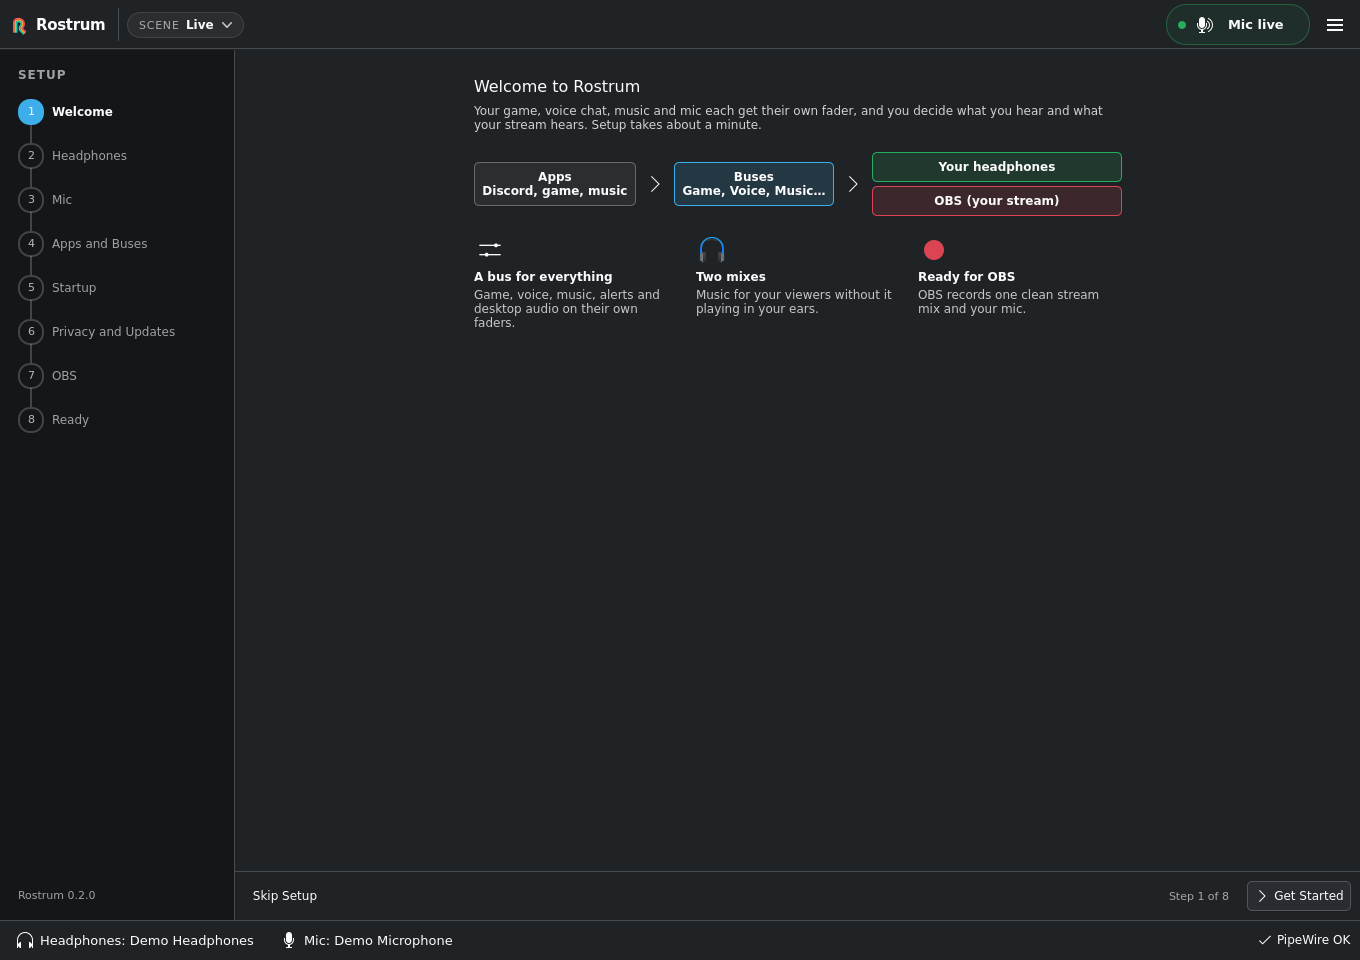
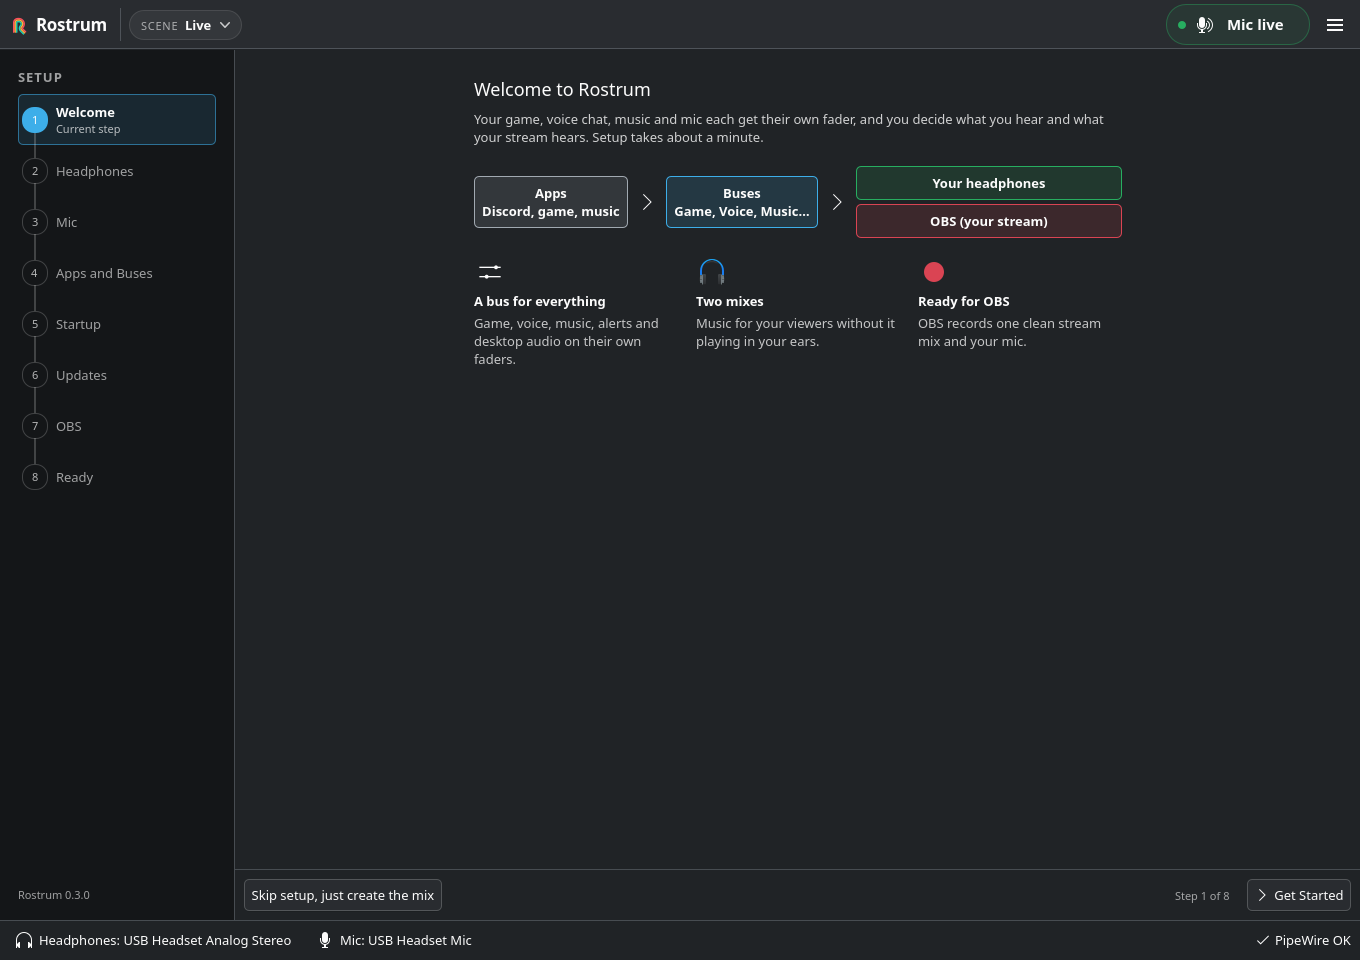
Update website for Rostrum 0.3.0
Download, release-note and docs links point at 0.3.0. The six app
screenshots are new 0.3.0 captures from the app's isolated screenshot
harness, with alt text and captions to match: the Settings shot now
shows the Hotkeys tab, and the OBS shot is shorter with OBS closed.
Mic filters are called Studio Voice, with the de-esser and the three
sounds; the hotkey and live-status features mention the new clash
prompt and the warning when OBS loses Rostrum after a PipeWire restart.

diff --git a/index.html b/index.html
@@ -59,16 +59,16 @@
           separate OBS tracks when you need their audio on its own.
         </p>
         <div class="actions">
-          <a class="button button-primary" href="https://github.com/rostrum-audio/rostrum/releases/download/v0.2.0/Rostrum-0.2.0-x86_64.AppImage">Download 0.2.0 AppImage</a>
-          <a class="button button-secondary" href="https://github.com/rostrum-audio/rostrum/releases/tag/v0.2.0">Release notes</a>
+          <a class="button button-primary" href="https://github.com/rostrum-audio/rostrum/releases/download/v0.3.0/Rostrum-0.3.0-x86_64.AppImage">Download 0.3.0 AppImage</a>
+          <a class="button button-secondary" href="https://github.com/rostrum-audio/rostrum/releases/tag/v0.3.0">Release notes</a>
         </div>
-        <p class="hero-note">Free and open source (Apache-2.0). 0.2.0 is available for x86_64. Validated on Ubuntu 26.04; glibc 2.43+ required. <a href="#install">Requirements and launch</a>.</p>
+        <p class="hero-note">Free and open source (Apache-2.0). 0.3.0 is available for x86_64. Validated on Ubuntu 26.04; glibc 2.43+ required. <a href="#install">Requirements and launch</a>.</p>
 
         <figure class="shot hero-shot">
           <button class="zoom" type="button" popovertarget="view-mixer">
             <span class="visually-hidden">Enlarge screenshot:</span>
-            <img src="images/mixer.png?v=28e6f422" width="1360" height="960"
-                 alt="The Rostrum 0.2.0 mixer in a demo session, with Include in Twitch VOD checked on Game and unchecked on Music. Headphones and Stream masters are above the six bus strips.">
+            <img src="images/mixer.png?v=eb919142" width="1360" height="960"
+                 alt="The Rostrum 0.3.0 mixer in a demo session, with Include in Twitch VOD checked on Game and unchecked on Music. Headphones and Stream masters are above the Mic strip and five bus strips.">
           </button>
         </figure>
       </div>
@@ -105,7 +105,7 @@
     <section class="section section-alt" id="features" aria-labelledby="features-title">
       <div class="wrap">
         <h2 id="features-title">Features</h2>
-        <p class="section-intro">Included in Rostrum 0.2.0.</p>
+        <p class="section-intro">Included in Rostrum 0.3.0.</p>
         <ul class="features">
           <li>
             <h3>Six buses to start</h3>
@@ -132,12 +132,12 @@
             <p>The mic has its own bus with optional sidetone. If a saved mic disappears, the stream mic stays silent until it returns. No other mic replaces it unless you explicitly enable fallback.</p>
           </li>
           <li>
-            <h3>Local microphone filters</h3>
-            <p>RNNoise reduces background noise, alongside a rumble filter, gate, EQ, compressor and limiter. Choose the stream and eligible recording apps, or only the stream, with per-app choices. Audio tools stay plain by default. Processing runs inside PipeWire.</p>
+            <h3>Studio Voice</h3>
+            <p>Local mic filters: RNNoise reduces background noise, alongside a rumble filter, gate, EQ, de-esser, compressor and limiter. Pick a Natural, Studio or Noisy desk sound, or fine-tune under Advanced. Choose the stream and eligible recording apps, or only the stream, with per-app choices. Audio tools stay plain by default. Processing runs inside PipeWire.</p>
           </li>
           <li>
             <h3>Check your stream mic</h3>
-            <p>Check Mic records five seconds of Rostrum Mic, with its gain and filters, and plays it back in your headphones only. It reports the mic level before OBS; it does not verify audience audio.</p>
+            <p>Check Mic records five seconds of Rostrum Mic, with its gain and Studio Voice, and plays it back in your headphones only. It reports the mic level before OBS; it does not verify audience audio.</p>
           </li>
           <li>
             <h3>Apps find their bus</h3>
@@ -169,11 +169,11 @@
           </li>
           <li>
             <h3>Knows when you are live</h3>
-            <p>LIVE and REC badges follow OBS. A warning appears if you go live with your mic muted or nothing reaching the stream. OBS scenes can switch Rostrum scenes.</p>
+            <p>LIVE and REC badges follow OBS. A warning appears if you go live with your mic muted or nothing reaching the stream. OBS scenes can switch Rostrum scenes, and you are warned if OBS loses Rostrum after a PipeWire restart.</p>
           </li>
           <li>
             <h3>Global hotkeys</h3>
-            <p>Mute the mic or the stream and switch scenes from anywhere. Bind push to talk, push to mute and a panic mute for mic and stream at once.</p>
+            <p>Mute the mic or the stream and switch scenes from anywhere. Bind push to talk, push to mute and a panic mute for mic and stream at once. If you press a key another action already uses, Rostrum asks before moving it.</p>
           </li>
           <li>
             <h3>Command line and D-Bus</h3>
@@ -206,7 +206,7 @@
           <figure class="shot">
             <button class="zoom" type="button" popovertarget="view-wizard">
               <span class="visually-hidden">Enlarge screenshot:</span>
-              <img src="images/wizard.png?v=212a9b2b" width="1360" height="960"
+              <img src="images/wizard.png?v=20162a6c" width="1360" height="960"
                    alt="First-time setup: a list of steps on the left, and a diagram of apps going to buses and buses going to your headphones and to OBS.">
             </button>
             <figcaption>First-time setup walks through headphones, mic, apps, startup, updates and OBS.</figcaption>
@@ -214,7 +214,7 @@
           <figure class="shot">
             <button class="zoom" type="button" popovertarget="view-apps">
               <span class="visually-hidden">Enlarge screenshot:</span>
-              <img src="images/apps.png?v=7460e43a" width="1360" height="960"
+              <img src="images/apps.png?v=3c568f76" width="1360" height="960"
                    alt="The Apps page: the apps playing now, the bus each is on and why, and the saved rules.">
             </button>
             <figcaption>The Apps page shows what is playing, where it went and why.</figcaption>
@@ -222,26 +222,26 @@
           <figure class="shot">
             <button class="zoom" type="button" popovertarget="view-obs">
               <span class="visually-hidden">Enlarge screenshot:</span>
-              <img src="images/obs.png?v=27708818" width="1360" height="1500"
-                   alt="Rostrum 0.2.0 OBS setup and separate recording-track controls in a private demo session.">
+              <img src="images/obs.png?v=d9120701" width="1360" height="1100"
+                   alt="The Rostrum 0.3.0 OBS page in a private demo session with OBS closed: stream readiness, Set Up OBS, recording tracks 3 to 6 and OBS scene switching.">
             </button>
-            <figcaption>Tracks 3–6 capture Mic, Game, Voice and Music in this demo. Recording changes have their own Review and Undo; matching assignments do not verify recorded sound.</figcaption>
+            <figcaption>With OBS closed, Set Up OBS edits its scene collection for the next start. Recording tracks 3–6 need OBS running with its WebSocket server; they have their own Review and Undo, and matching assignments do not verify recorded sound.</figcaption>
           </figure>
           <figure class="shot">
             <button class="zoom" type="button" popovertarget="view-settings">
               <span class="visually-hidden">Enlarge screenshot:</span>
-              <img src="images/settings.png?v=8b59f19e" width="1360" height="960"
-                   alt="Rostrum 0.2.0 Settings, with separate tabs for General, Audio, Hotkeys, Integrations and Application preferences.">
+              <img src="images/settings.png?v=6564255f" width="1360" height="960"
+                   alt="Rostrum 0.3.0 Settings on the Hotkeys tab: a search field, then the Mic shortcuts, each with clear and reset buttons.">
             </button>
-            <figcaption>Settings groups startup, audio, hotkeys, integrations and application preferences. OpenDeck setup is under Integrations.</figcaption>
+            <figcaption>Settings groups startup, audio, hotkeys, integrations and application preferences. Hotkeys can be searched, and Rostrum asks before moving a key another action already uses.</figcaption>
           </figure>
           <figure class="shot">
             <button class="zoom" type="button" popovertarget="view-micfilters">
               <span class="visually-hidden">Enlarge screenshot:</span>
-              <img src="images/micfilters.png?v=e2500f77" width="1360" height="960"
-                   alt="The Mic Filters page: a switch to clean up the mic, a preset, which apps get the filtered mic, then Check Your Mic and the rumble filter.">
+              <img src="images/micfilters.png?v=e48c77a8" width="1360" height="960"
+                   alt="The Studio Voice page: the on switch, the mic, the Natural, Studio and Noisy desk sounds, Check Your Mic, and which apps get the filtered mic.">
             </button>
-            <figcaption>Mic Filters processes locally; Check Mic plays back the Rostrum Mic signal before OBS.</figcaption>
+            <figcaption>Studio Voice processes locally; Check Mic plays back the Rostrum Mic signal before OBS.</figcaption>
           </figure>
         </div>
       </div>
@@ -253,16 +253,16 @@
         <div class="narrow">
         <h3>Download the x86_64 AppImage</h3>
         <p>
-          <a href="https://github.com/rostrum-audio/rostrum/releases/download/v0.2.0/Rostrum-0.2.0-x86_64.AppImage">Rostrum 0.2.0 AppImage</a> ·
-          <a href="https://github.com/rostrum-audio/rostrum/releases/download/v0.2.0/SHA256SUMS">SHA256SUMS</a> ·
-          <a href="https://github.com/rostrum-audio/rostrum/releases/tag/v0.2.0">Release notes</a>.
+          <a href="https://github.com/rostrum-audio/rostrum/releases/download/v0.3.0/Rostrum-0.3.0-x86_64.AppImage">Rostrum 0.3.0 AppImage</a> ·
+          <a href="https://github.com/rostrum-audio/rostrum/releases/download/v0.3.0/SHA256SUMS">SHA256SUMS</a> ·
+          <a href="https://github.com/rostrum-audio/rostrum/releases/tag/v0.3.0">Release notes</a>.
           Save the AppImage and checksum file in the same folder, then run:
         </p>
 <pre><code>sha256sum -c SHA256SUMS
-chmod +x Rostrum-0.2.0-x86_64.AppImage
-./Rostrum-0.2.0-x86_64.AppImage
+chmod +x Rostrum-0.3.0-x86_64.AppImage
+./Rostrum-0.3.0-x86_64.AppImage
 # If FUSE is unavailable:
-./Rostrum-0.2.0-x86_64.AppImage --appimage-extract-and-run</code></pre>
+./Rostrum-0.3.0-x86_64.AppImage --appimage-extract-and-run</code></pre>
         <p>
           Fully quit an existing Rostrum through its tray/menu Quit first; closing the window can
           leave it running. Builds share settings and a second launch can activate the old copy.
@@ -276,7 +276,7 @@ chmod +x Rostrum-0.2.0-x86_64.AppImage
           for every newer distribution. Older glibc and other architectures are unsupported by
           this artifact. A working audio session, desktop D-Bus, X11 or Wayland, graphics/font
           libraries and FUSE for mounted launch are required. See the
-          <a href="https://github.com/rostrum-audio/rostrum/blob/v0.2.0/docs/releasing.md#what-gets-published">host runtime packages</a>.
+          <a href="https://github.com/rostrum-audio/rostrum/blob/v0.3.0/docs/releasing.md#what-gets-published">host runtime packages</a>.
         </p>
         <h3>Connect OBS</h3>
         <p>
@@ -326,7 +326,7 @@ chmod +x Rostrum-0.2.0-x86_64.AppImage
           Install to install the bundled plugin. Restart OpenDeck and drag an action onto a key:
           Toggle mic, Panic mute, Switch scene, or Toggle bus mute. Python 3 is required.
           OpenDeck owns the deck; Rostrum does not open it. For manual copy instructions, see the
-          <a href="https://github.com/rostrum-audio/rostrum/tree/v0.2.0#opendeck">OpenDeck setup guide</a>.
+          <a href="https://github.com/rostrum-audio/rostrum/tree/v0.3.0#opendeck">OpenDeck setup guide</a>.
         </p>
         <p>OpenDeck mic cues provide optional headphone feedback, with per-key sound volume.</p>
         <section id="vod" aria-labelledby="vod-title">
@@ -389,7 +389,7 @@ chmod +x Rostrum-0.2.0-x86_64.AppImage
         <p>
           <a href="https://github.com/rostrum-audio/rostrum#build-from-source">Source-build instructions</a>
           cover Ubuntu, Fedora and Arch. Source minimums are PipeWire 1.0+, WirePlumber 0.5+,
-          Qt 6.5+ and KDE Frameworks 6.8+; mic filters need PipeWire 1.4+ audio-convert support.
+          Qt 6.5+ and KDE Frameworks 6.8+; Studio Voice needs PipeWire 1.4+ audio-convert support.
           These are not the AppImage’s validated compatibility matrix. Source-build CI passes
           on Fedora and Arch do not validate this AppImage on those systems.
         </p>
@@ -401,7 +401,7 @@ chmod +x Rostrum-0.2.0-x86_64.AppImage
       <div class="wrap">
         <h2 id="privacy-title">Privacy and network access</h2>
         <p class="section-intro">
-          Rostrum has no telemetry or accounts and does not upload your audio. Mic filters and the
+          Rostrum has no telemetry or accounts and does not upload your audio. Studio Voice and the
           mic check run locally without saving recordings. Optional update checks and AppImage downloads
           contact the release servers; optional crash reports go to Sentry. OBS communication stays local.
         </p>
@@ -430,42 +430,42 @@ chmod +x Rostrum-0.2.0-x86_64.AppImage
     <div class="lightbox" id="view-mixer" popover>
       <button type="button" popovertarget="view-mixer" popovertargetaction="hide">
         <span class="visually-hidden">Close the enlarged screenshot</span>
-        <img src="images/mixer.png?v=28e6f422" width="1360" height="960" alt="">
+        <img src="images/mixer.png?v=eb919142" width="1360" height="960" alt="">
         <span class="lightbox-close" aria-hidden="true">✕</span>
       </button>
     </div>
     <div class="lightbox" id="view-wizard" popover>
       <button type="button" popovertarget="view-wizard" popovertargetaction="hide">
         <span class="visually-hidden">Close the enlarged screenshot</span>
-        <img src="images/wizard.png?v=212a9b2b" width="1360" height="960" alt="">
+        <img src="images/wizard.png?v=20162a6c" width="1360" height="960" alt="">
         <span class="lightbox-close" aria-hidden="true">✕</span>
       </button>
     </div>
     <div class="lightbox" id="view-apps" popover>
       <button type="button" popovertarget="view-apps" popovertargetaction="hide">
         <span class="visually-hidden">Close the enlarged screenshot</span>
-        <img src="images/apps.png?v=7460e43a" width="1360" height="960" alt="">
+        <img src="images/apps.png?v=3c568f76" width="1360" height="960" alt="">
         <span class="lightbox-close" aria-hidden="true">✕</span>
       </button>
     </div>
     <div class="lightbox" id="view-obs" popover>
       <button type="button" popovertarget="view-obs" popovertargetaction="hide">
         <span class="visually-hidden">Close the enlarged screenshot</span>
-        <img src="images/obs.png?v=27708818" width="1360" height="1500" alt="">
+        <img src="images/obs.png?v=d9120701" width="1360" height="1100" alt="">
         <span class="lightbox-close" aria-hidden="true">✕</span>
       </button>
     </div>
     <div class="lightbox" id="view-settings" popover>
       <button type="button" popovertarget="view-settings" popovertargetaction="hide">
         <span class="visually-hidden">Close the enlarged screenshot</span>
-        <img src="images/settings.png?v=8b59f19e" width="1360" height="960" alt="">
+        <img src="images/settings.png?v=6564255f" width="1360" height="960" alt="">
         <span class="lightbox-close" aria-hidden="true">✕</span>
       </button>
     </div>
     <div class="lightbox" id="view-micfilters" popover>
       <button type="button" popovertarget="view-micfilters" popovertargetaction="hide">
         <span class="visually-hidden">Close the enlarged screenshot</span>
-        <img src="images/micfilters.png?v=e2500f77" width="1360" height="960" alt="">
+        <img src="images/micfilters.png?v=e48c77a8" width="1360" height="960" alt="">
         <span class="lightbox-close" aria-hidden="true">✕</span>
       </button>
     </div>

diff --git a/privacy.html b/privacy.html
@@ -53,7 +53,7 @@
       <h2>Your audio</h2>
       <ul>
         <li>Rostrum does not upload your audio. It mixes locally inside PipeWire; OBS or other recording apps handle any recording or streaming you choose.</li>
-        <li>Mic filters, noise removal included, also run inside PipeWire on your computer. RNNoise's model is part of the plugin, and no audio, level or transcript is stored or sent.</li>
+        <li>Studio Voice (the mic filters), noise removal included, also runs inside PipeWire on your computer. RNNoise's model is part of the plugin, and no audio, level or transcript is stored or sent.</li>
         <li>Check Mic keeps its 5-second recording in memory only and never writes it to disk. Only your headphones play it back.</li>
       </ul>
 

diff --git a/README.md b/README.md
@@ -53,7 +53,7 @@ so the first line of `_redirects` sends that path to the newest one:
 ```
 
 Keep that line first and keep the path unchanged: released versions of the app have the URL built
-in. Rostrum 0.2.0 is published; the redirect reaches a feed whose AppImage hash
+in. Rostrum 0.3.0 is published; the redirect reaches a feed whose AppImage hash
 and size match the public download. Do not change
 this redirect to point at a local fixture or manually edit the public feed.
 
@@ -82,10 +82,11 @@ source-build minimums separate from the tested AppImage environment. OBS capture
 Stream Mix, VOD Mix and Rostrum Mic separately. Recording tracks 3–6 are optional;
 readiness and matching assignments do not verify recorded sound.
 
-The six app screenshots use the published 0.2.0 AppImage in a disposable container
-with private PipeWire, WirePlumber, PulseAudio compatibility, D-Bus and Xvfb. Devices
-and app names are demo fixtures. The OBS page shows an actual isolated OBS instance;
-no recording or stream was started. Never capture the user’s live session. Replace
+The six app screenshots are 0.3.0 captures from the release commit's source build, taken
+with the app repository's isolated screenshot harness (`tools/ci/apps-screenshot.py --docs`):
+private PipeWire, WirePlumber and D-Bus, offscreen. Devices and app names are demo fixtures.
+OBS is closed in the OBS page shot, so recording tracks show as unavailable. Never capture the
+user’s live session. Replace
 the image URL’s `?v=` value with the new image’s SHA-256 prefix when updating a
 screenshot, and update its dimensions, alt text and caption. Preserve CSP and static assets.
 Keep everything self-hosted: the
